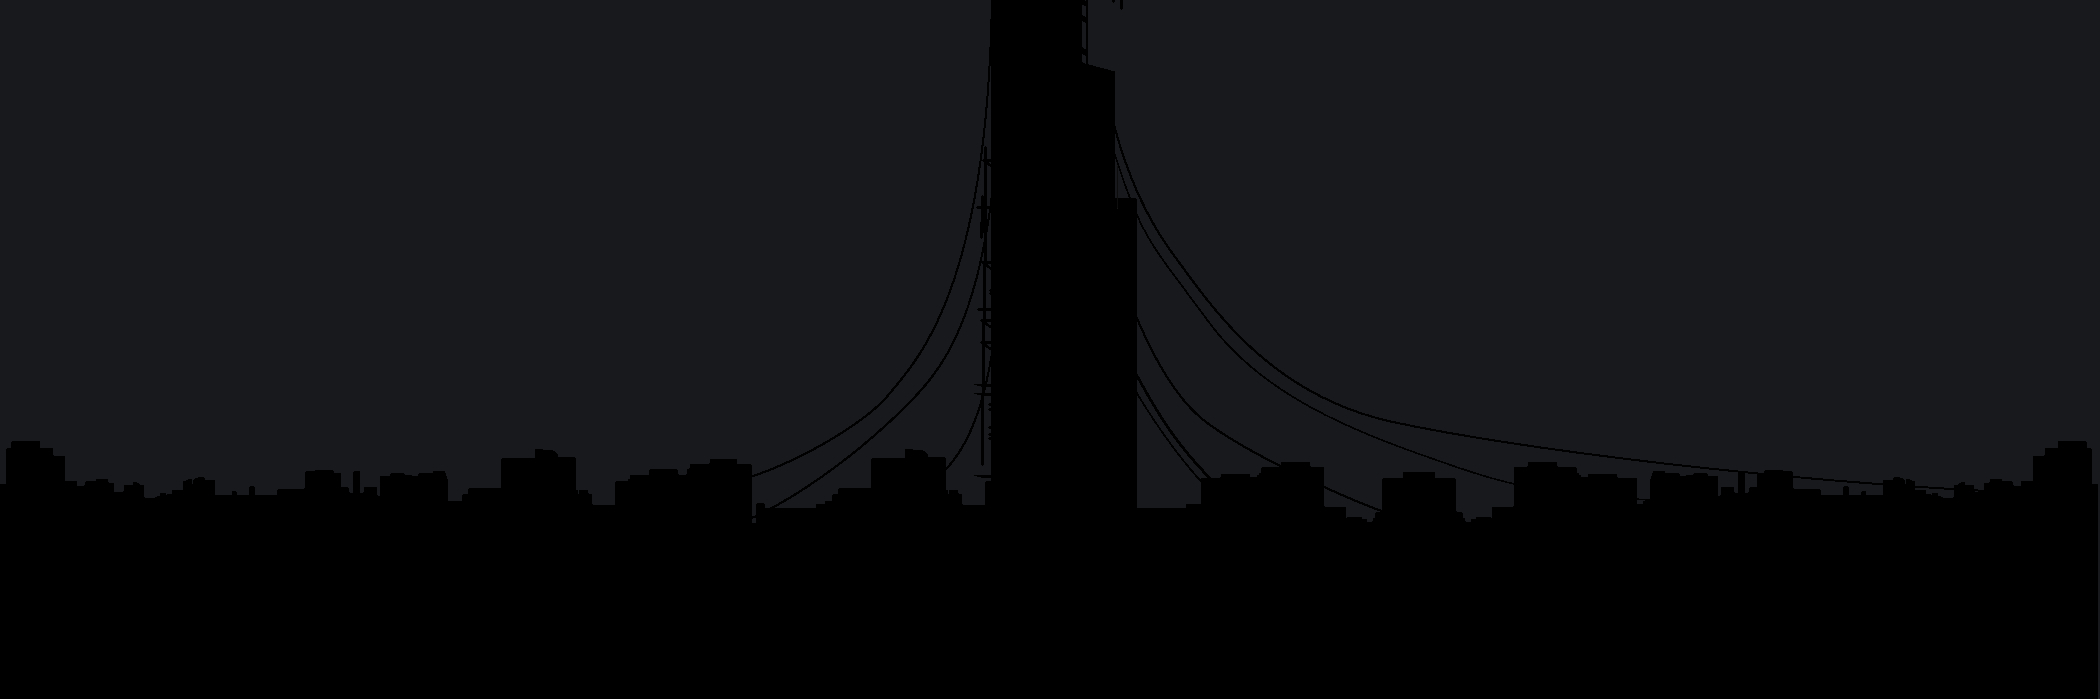
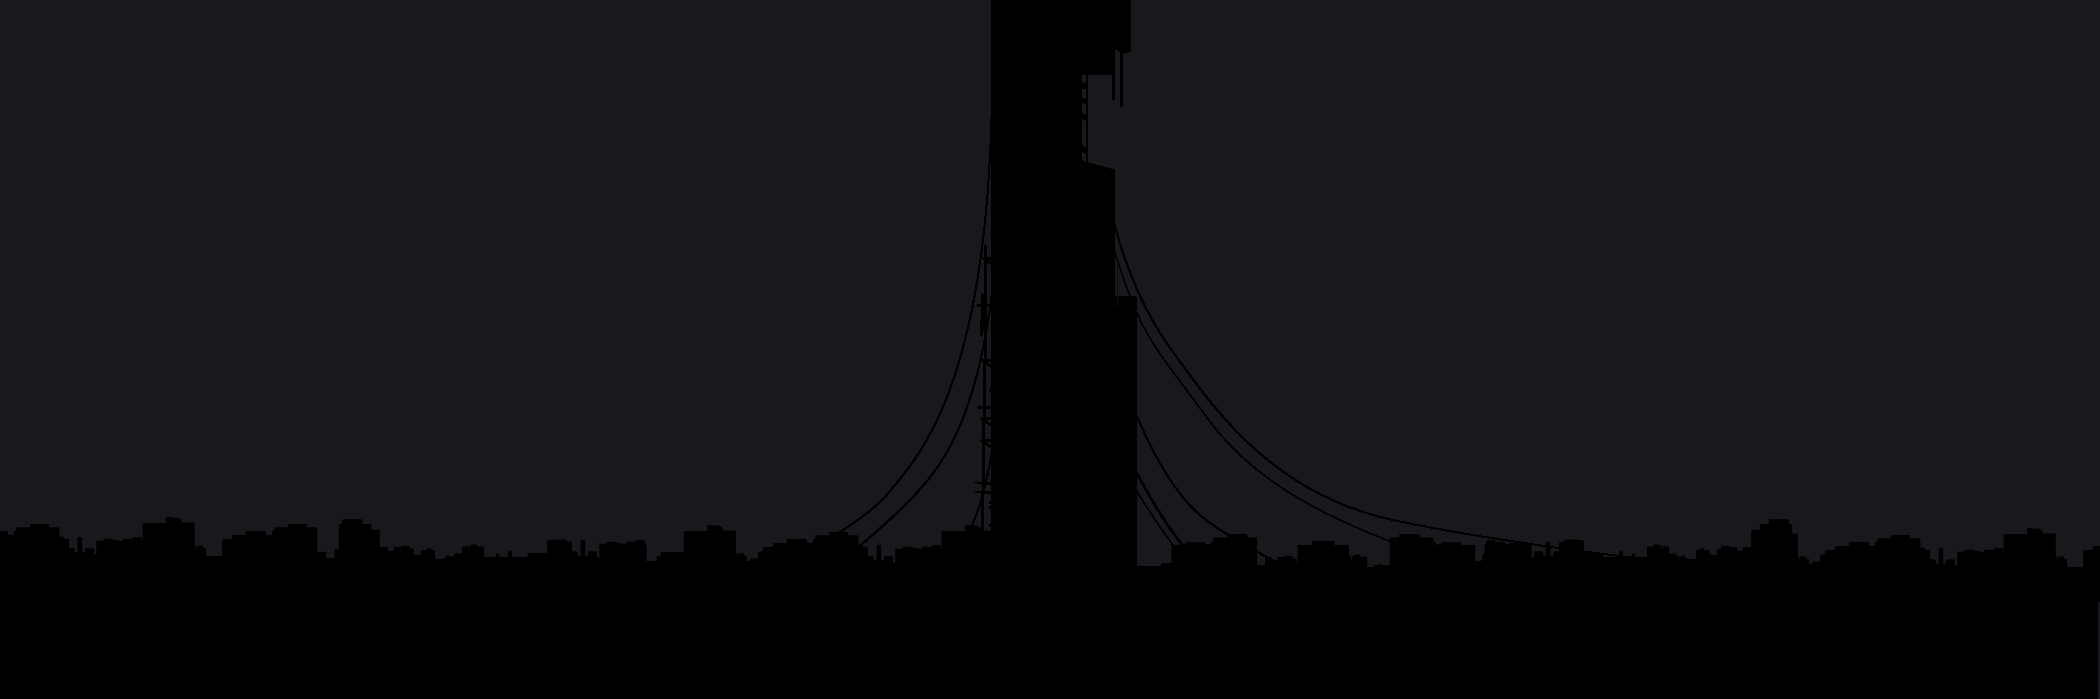
Social background update

diff --git a/css/styles.css b/css/styles.css
@@ -10338,7 +10338,7 @@ body {
 
 .signup-section {
   padding: 10rem 0;
-  height: 25rem;
+  height: 35rem;
   background: linear-gradient(to top, rgba(0, 0, 0, 0.1) 50%, #18191d 100%), url("../assets/img/bg-social.jpg");
   background-position: center;
   background-repeat: no-repeat;
